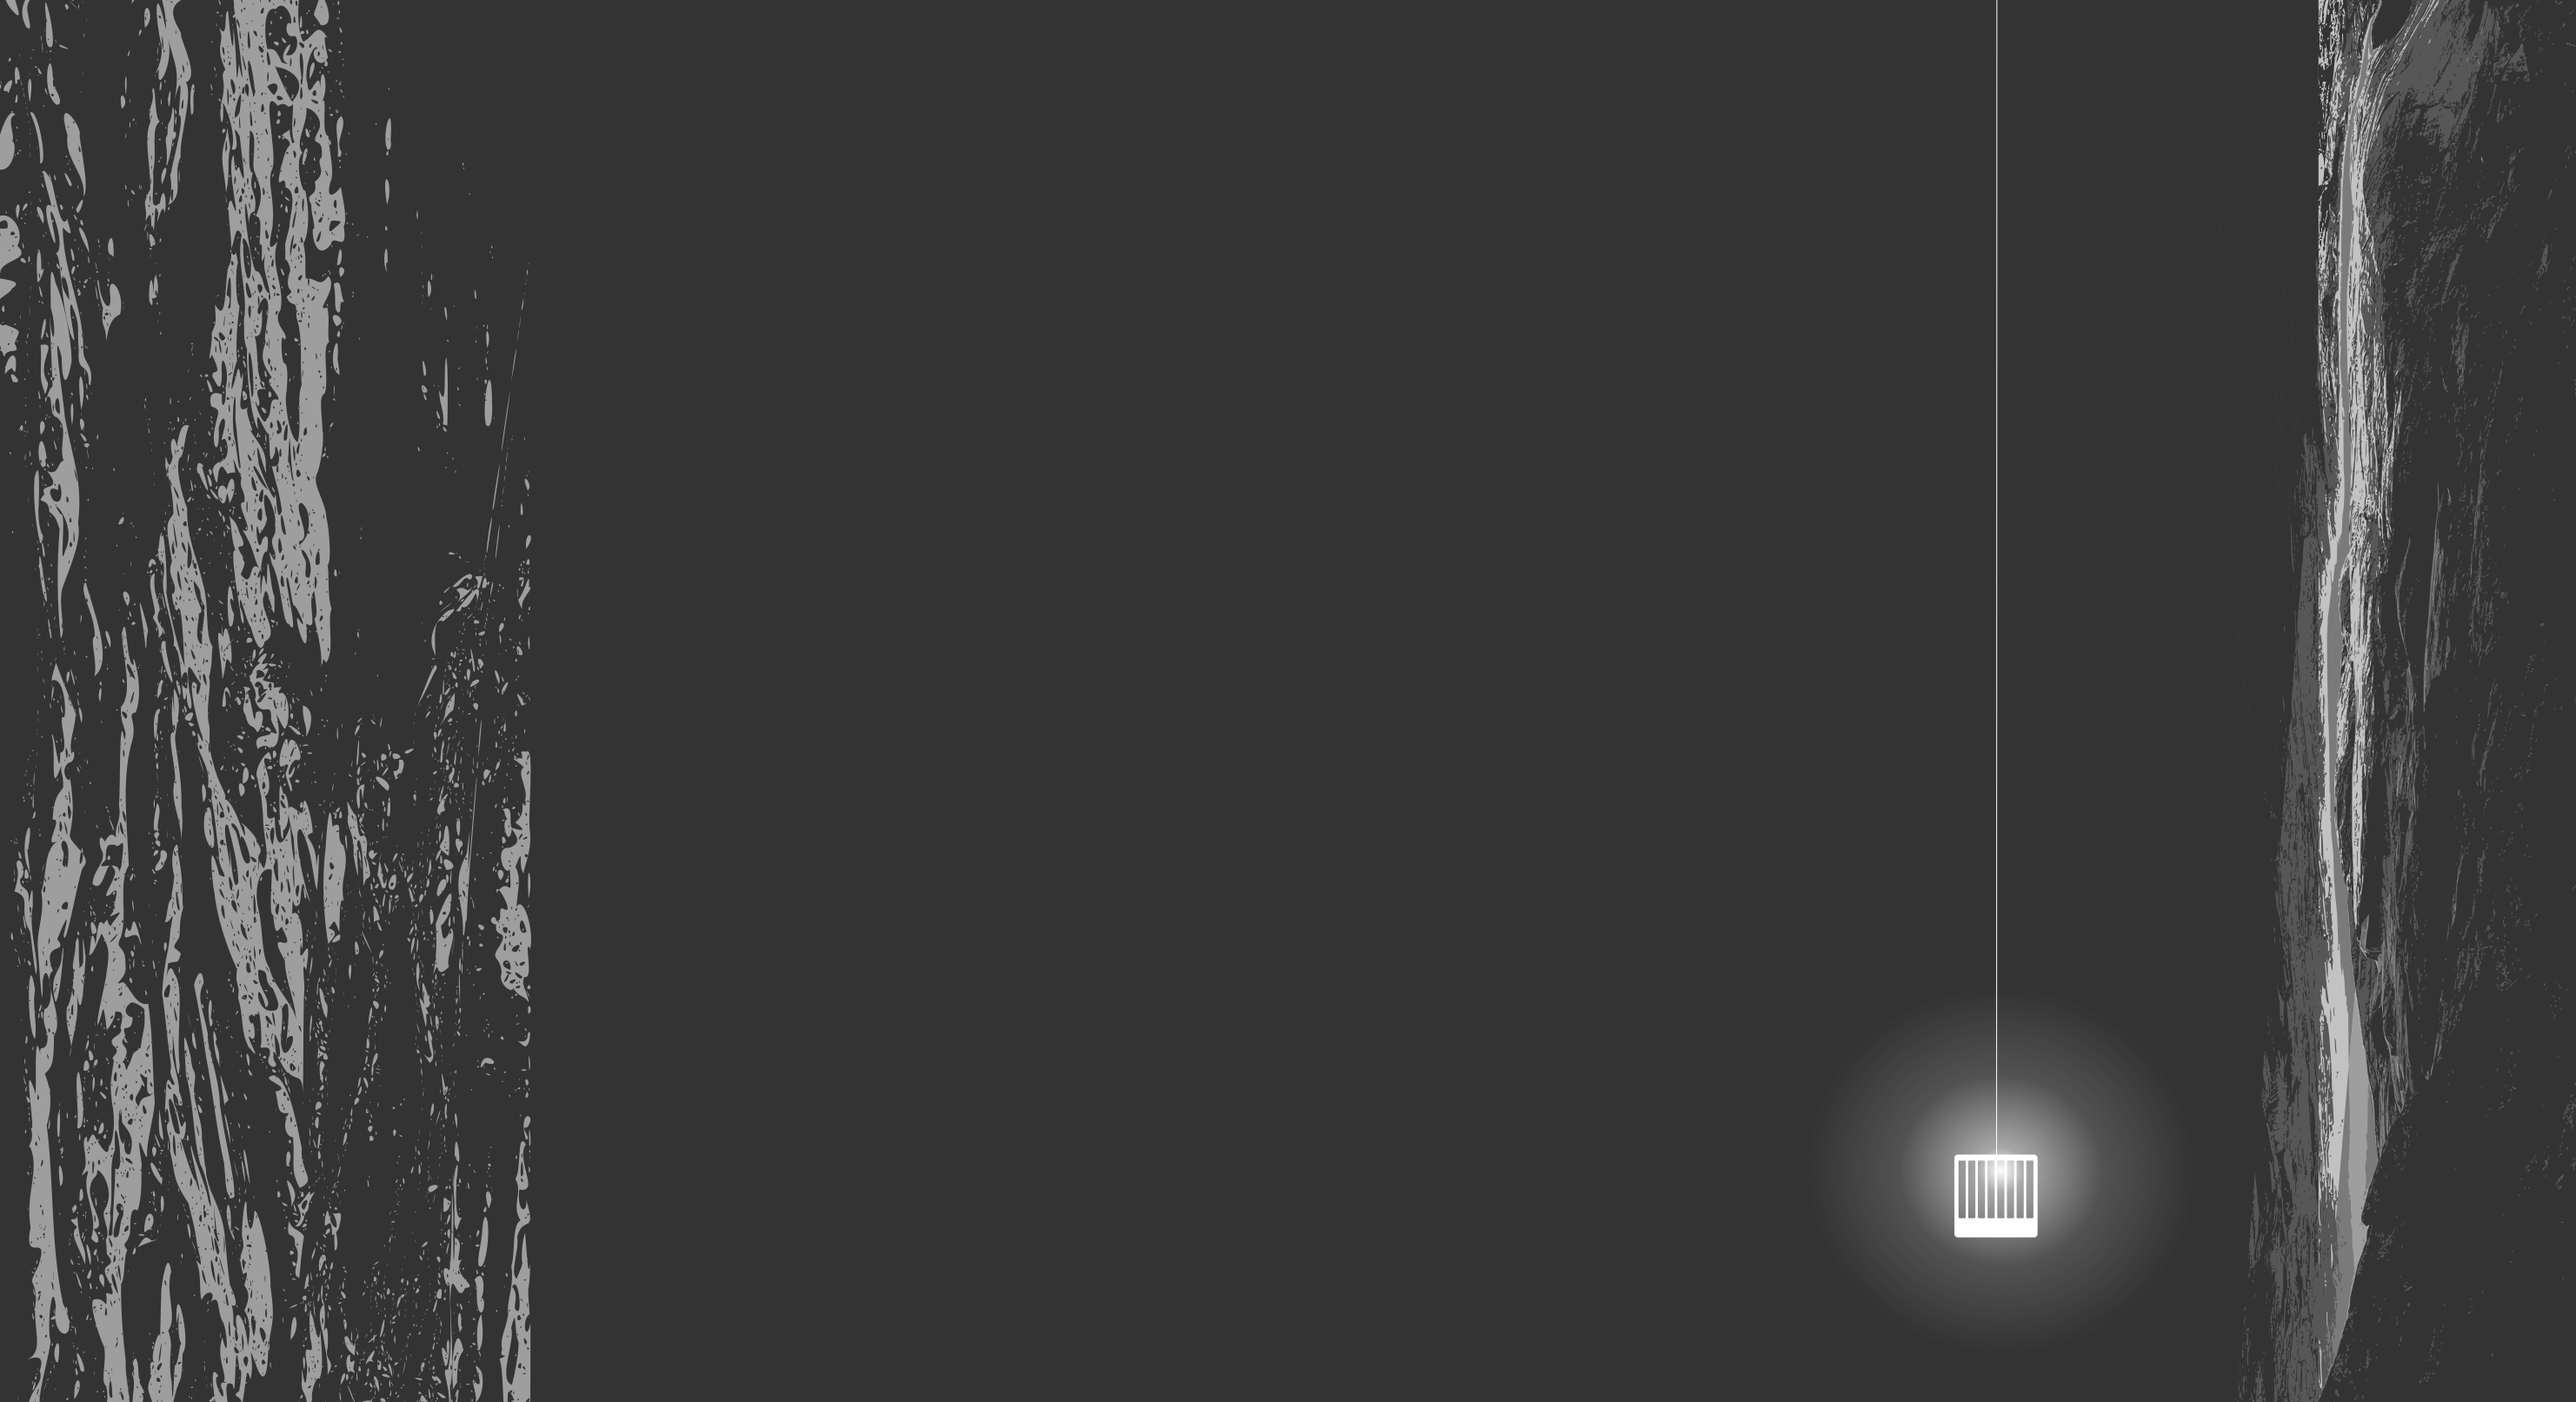
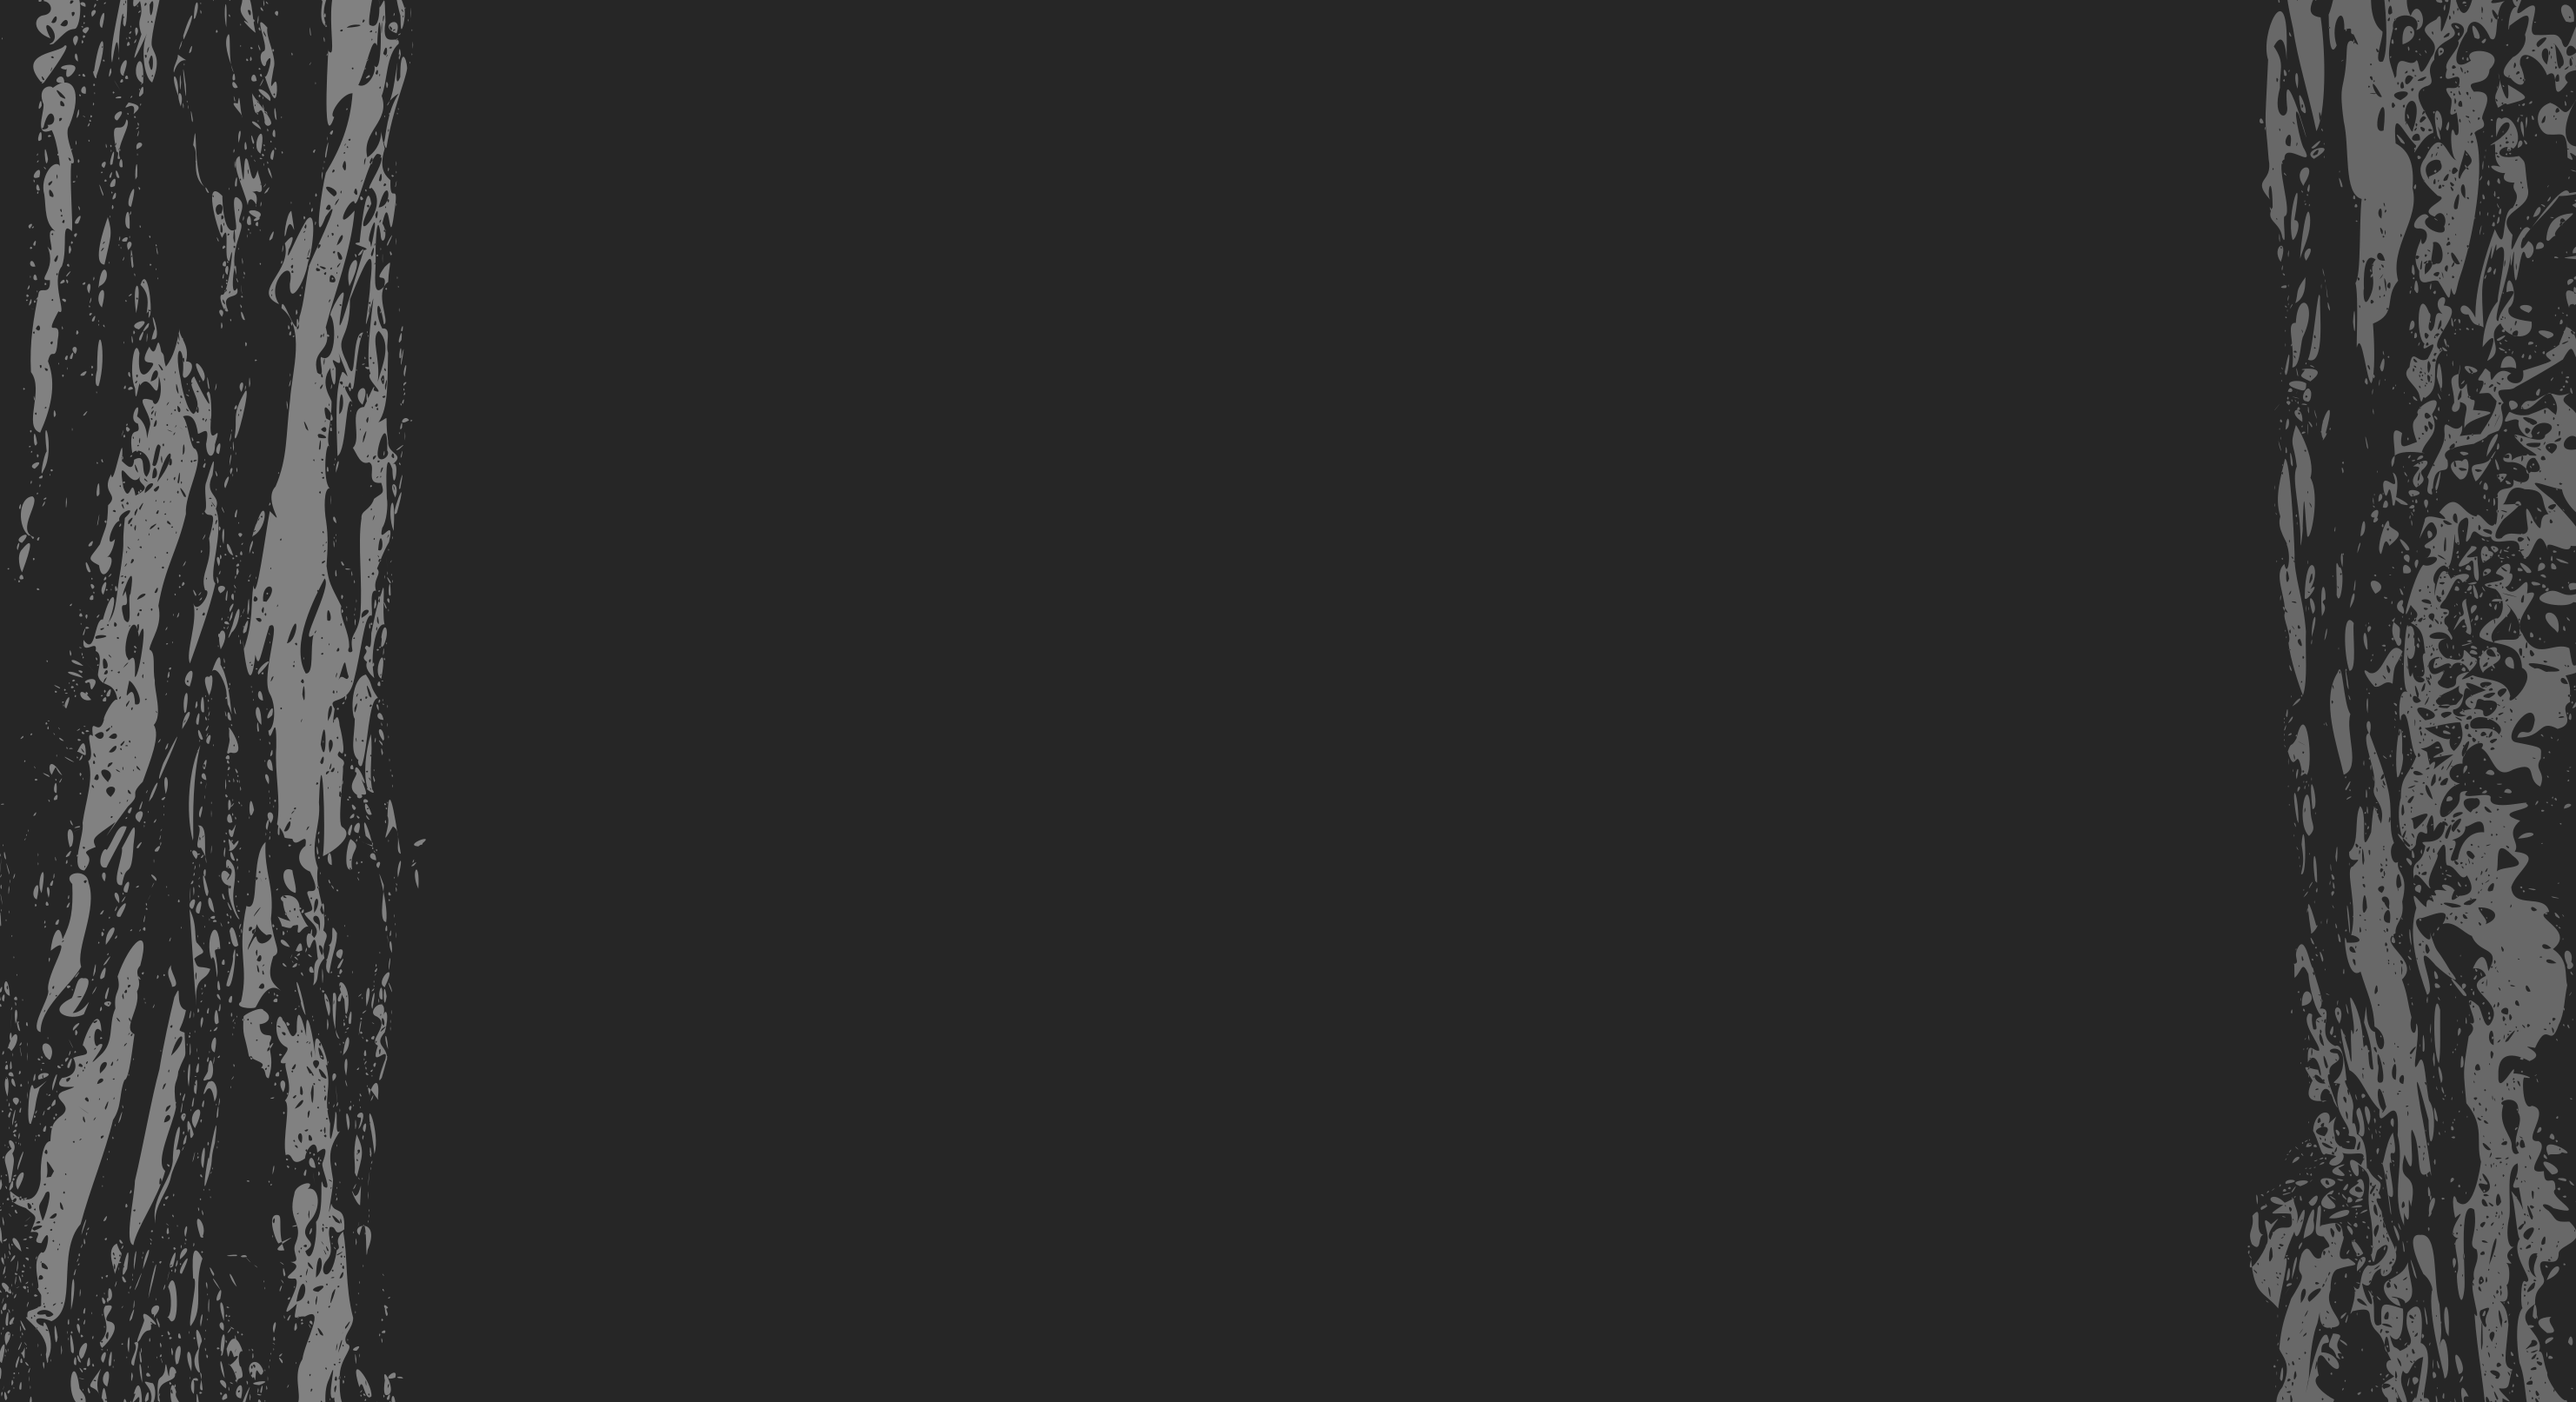
correction taille icones

Changed region(s): [[0.0, 0.0, 0.2173, 1.0], [0.8694, 0.0, 1.0, 1.0], [0.7141, 0.713, 0.8383, 0.9609]]

diff --git a/assets/styles/app.scss b/assets/styles/app.scss
@@ -7,62 +7,103 @@
 
 @import "./mixins.scss";
 
+html {
+    font-size: 16px;
+}
 
 body {
     margin: 0;
     padding: 0;
+}
 
-    #accueil_wrapper {
-        display: grid;
-        background-color: rgb(30, 32, 32);
-        color: white;
-        background-image: url("../images/BGAccueil.png");
-        background-repeat: no-repeat;
-        background-position: center;
-        background-size: 100%;
-        height: 100vh;
-        width: 100vw;
-        font-family: 'Work Sans', sans-serif;
-    }
+#accueil_wrapper {
+    display: flex;
+    justify-content: center;
+    background-color: rgb(30, 32, 32);
+    color: white;
+    background-image: url("../images/BGAccueil.png");
+    background-size: cover;
+    background-repeat: repeat-x;
+    background-position: center;
+    font-family: 'Work Sans', sans-serif;
 
-    #hub_wrapper {
+    .accueil_text_wrapper {
         display: flex;
-        align-items: center;
-        justify-content: center;
-        background-color: rgb(30, 32, 32);
-        color: white;
-        background-image: url("../images/BGHUBSpeleo.png");
-        background-origin: content-box;
-        background-repeat: no-repeat;
-        background-size: cover;
-        font-family: 'Work Sans', sans-serif;
+        flex-direction: column;
+        max-width: 1000px;
+    }
 
-        .game_width {
-            height: 100vh;
-            width: 100vw;
-            display: grid;
-            grid-template-columns: 5fr 1fr;
-            grid-template-rows: 1fr 10fr 1fr;
-            grid-template-areas: 'zone_titre liste''zone_jeu liste''menuHub menu_plus';
+    header,
+    footer,
+    main {
+        padding: 1.5rem;
+
+        a {
+            text-decoration: none;
+            padding-right: 2rem;
+            font-size: 1.2rem;
         }
+
+        h1 {
+            font-size: 2rem;
+            padding: 3rem 0;
+            @include marginAuto;
+        }
+
     }
 
+    footer {
+        display: flex;
+        justify-content: center;
 
-
-    h1,
-    h2,
-    h3,
-    h4,
-    h5,
-    h6 {
-        font-family: 'Space Mono', monospace;
     }
 
+    main {
+        display: flex;
+        flex-direction: column;
+        justify-content: center;
 
-    a {
-        color: white;
     }
 }
+
+#hub_wrapper {
+    display: flex;
+    align-items: center;
+    justify-content: center;
+    background-color: rgb(30, 32, 32);
+    color: white;
+    background-image: url("../images/BGHUBSpeleo.png");
+    background-origin: content-box;
+    background-repeat: no-repeat;
+    background-size: cover;
+    font-family: 'Work Sans', sans-serif;
+
+    .game_width {
+        height: 100vh;
+        width: 100vw;
+        display: grid;
+        grid-template-columns: 5fr 1fr;
+        grid-template-rows: 1fr 10fr 1fr;
+        grid-template-areas: 'zone_titre liste''zone_jeu liste''menuHub menu_plus';
+    }
+}
+
+
+
+h1,
+h2,
+h3,
+h4,
+h5,
+h6 {
+    font-family: 'Space Mono', monospace;
+}
+
+
+a {
+    color: white;
+}
+
 
 .zone_titre {
     grid-area: zone_titre;
